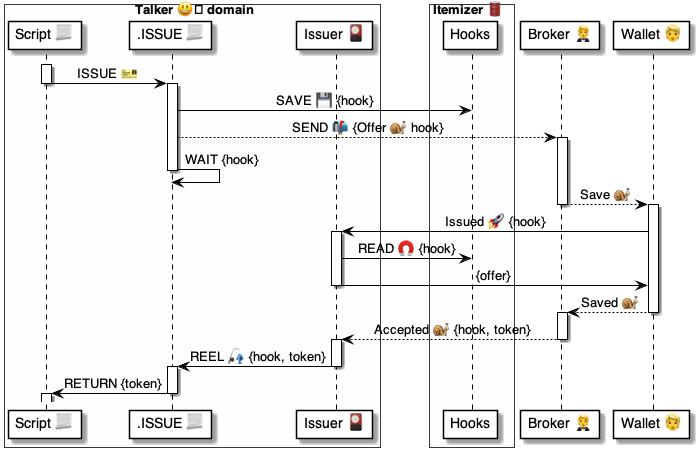
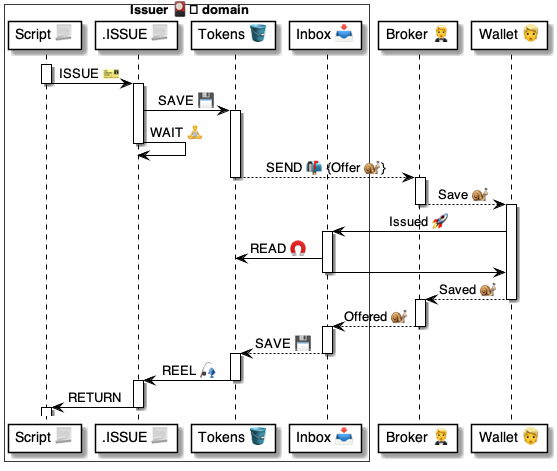
.

diff --git a/4 ⚙ Solution/37 Scripts 📃/📃 Commands ⌘/⌘ for methods 🤵/ISSUE 🎫/🎫 ISSUE 📃 script.md b/4 ⚙ Solution/37 Scripts 📃/📃 Commands ⌘/⌘ for methods 🤵/ISSUE 🎫/🎫 ISSUE 📃 script.md
@@ -1,10 +1,17 @@
 # 🎫 ISSUE 📃 script
 
-[Script 📃](<../../../../35 💬 Chats/Scripts 📃/Script 📃.md>) that implements the [`ISSUE`](<🎫 ISSUE ⌘ cmd.md>) command.
+> About
+* [Script 📃](<../../../../35 💬 Chats/Scripts 📃/Script 📃.md>) that implements the [`ISSUE`](<🎫 ISSUE ⌘ cmd.md>) command.
+* Part of the [🧑🦰 `Save Token` ⏩ flow](<../../../../20 🧑🦰 UI/Wallets 🧑🦰/🧑🦰💬 Wallet chats/...in Prompts 🤔/Save Token 👉🎴🎫/🧑🦰 Save token ⏩ flow.md>)
+* Part of the [🎴 `Issuer.Tokens.Insert` ⏩ flow](<../../../../41 🎭 Domain Roles/Issuers 🎴/🎴🪣 Issuer tables/Tokens 🎫 table/🪣⏩ Flows/1. Issue/🎴 Issuer.Tokens.Insert ⏩ flow.md>)
+
+<br/>
 
 ## Flow
 
 ![alt text](<🎫 ISSUE ⚙ uml.png>)
+
+<br/>
 
 ## How to call
 
@@ -13,11 +20,12 @@
     Schema: any-authority.dom/ANY-SCHEMA
     Starts: 2018-12-10T13:45:00.000Z
     Expires: 2018-12-10T13:45:00.000Z
-    Properties: 
-        {properties}
-    Internals:
-        {internals}
+    Properties: {properties} # Part of the Token 🎫
+    Internals: {internals}   # Internal Issuer 🎴 notes
 ```
+
+<br/>
+
 
 ## Script
 
@@ -31,43 +39,29 @@
     Times: Starts, Expires
 
 # Save the hook
-- SAVE|Talker.Hooks >> $hook:
-    Hook: .UUID
+- SAVE|Issuer.Tokens >> $token:
     Broker: $.Chat.Broker
     Chat: $.Chat.ID
     PublicKey: $.Chat.PublicKey
+    Schema: $Schema
+    Starts: $Starts
+    Expires: $Expires
+    Properties: $Properties
     Internals: $Internals
-    Offer:
-        Schema: $Schema
-        Starts: $Starts
-        Expires: $Expires
-        Properties: $Properties
-    
-# Query the Broker
-- SEND:
-    Header:
-        To: $.Chat.Broker
-        Subject: Issue@Broker
-    Body: 
-        Chat: $.Chat.ID
-        Hook: $hook.Hook
-        Schema: $Schema
-        Starts: $Starts
-        Expires: $Expires
 
 # Wait for the shared data
-- WAIT >> $token:
-    Hook: $hook.Hook
+- WAIT >> $accepted:
+    Hook: $token.ID
 
-# Return the data
-- RETURN:
-    $token
+# Return the token
+- IF|$accepted:
+    RETURN|$token
 ```
 
 Uses||
 |-|-
-|[Commands ⌘](<../../../../35 💬 Chats/Scripts 📃/Command ⌘.md>)| [`ASSERT`](<../../⌘ for holders 🧠/ASSERT 🚦/🚦 ASSERT ⌘ cmd.md>) [`RETURN`](<../../⌘ for control ▶/RETURN ⤴/⤴ RETURN ⌘ cmd.md>) [`SAVE`](<../../⌘ for datasets 🪣/SAVE 💾/💾 SAVE ⌘ cmd.md>) [`SEND`](<../../⌘ for messages 📨/SEND 📬/📬 SEND ⌘ cmd.md>) [`WAIT`](<../../⌘ for async/WAIT 🧘/🧘 WAIT ⌘ cmd.md>)
-| [Datasets 🪣](<../../../../30 🧩 Data/Datasets 🪣/🪣 Dataset.md>) | [`TalkerHooks`](<../../../../35 💬 Chats/Talkers 😃/😃🪣 Talker tables/😃 Talker.Hooks 🪣 table.md>)
+|[Commands ⌘](<../../../../35 💬 Chats/Scripts 📃/Command ⌘.md>)| [`ASSERT`](<../../⌘ for holders 🧠/ASSERT 🚦/🚦 ASSERT ⌘ cmd.md>) [`RETURN`](<../../⌘ for control ▶/RETURN ⤴/⤴ RETURN ⌘ cmd.md>) [`SAVE`](<../../⌘ for datasets 🪣/SAVE 💾/💾 SAVE ⌘ cmd.md>)  [`WAIT`](<../../⌘ for async/WAIT 🧘/🧘 WAIT ⌘ cmd.md>)
+| [Datasets 🪣](<../../../../30 🧩 Data/Datasets 🪣/🪣 Dataset.md>) | [`Issuer.Tokens`](<../../../../41 🎭 Domain Roles/Issuers 🎴/🎴🪣 Issuer tables/Tokens 🎫 table/🪣 Tokens/🎴 Issuer.Tokens 🪣 table.md>)
 | [Holders 🧠](<../../../../35 💬 Chats/Scripts 📃/Holder 🧠.md>) | [`.Chat`](<../../../📃 Holders 🧠/System holders 🔩/$.Chat 💬/💬 $.Chat 🧠 holder.md>)
-| [Messages 📨](<../../../../30 🧩 Data/Messages 📨/📨 Message/📨 Message.md>) | [`Issue@Broker` 🅰 method](<../../../../20 🧑🦰 UI/Brokers 🤵/🤵🅰 Broker methods/Tokens 🎫 Issue 🎴🐌🤵/🤵 Issue 🐌 msg.md>) <br/> [`Issued@Issuer` 🅰 method](<../../../../41 🎭 Domain Roles/Issuers 🎴/🎴🅰 Issuer methods/Issued 🧑🦰🚀🎴/🎴 Issued 🚀 call.md>) <br/> [`Offered@Issuer` 🅰 method](<../../../../41 🎭 Domain Roles/Issuers 🎴/🎴🅰 Issuer methods/Offered 🤵🐌🎴/🎴 Offered 🐌 msg.md>)
+| [Messages 📨](<../../../../30 🧩 Data/Messages 📨/📨 Message/📨 Message.md>) | [`Issue@Broker` 🅰 method](<../../../../20 🧑🦰 UI/Brokers 🤵/🤵🅰 Broker methods/Tokens 🎫 Issue 🎴🐌🤵/🤵 Issue 🐌 msg.md>) 
 |

diff --git a/4 ⚙ Solution/41 🎭 Domain Roles/Issuers 🎴/🎴🪣 Issuer tables/Tokens 🎫 table/🪣⏩ Flows/1. Issue/🎴 Issuer.Tokens.Insert ⏩ flow.md b/4 ⚙ Solution/41 🎭 Domain Roles/Issuers 🎴/🎴🪣 Issuer tables/Tokens 🎫 table/🪣⏩ Flows/1. Issue/🎴 Issuer.Tokens.Insert ⏩ flow.md
@@ -1,0 +1,21 @@
+# 🎴 Issuer.Tokens.Insert ⏩ flow
+
+> Part of the [`Issuer.Tokens` 🪣 table](<../../🪣 Tokens/🎴 Issuer.Tokens 🪣 table.md>)
+
+<br/>
+
+## Diagram
+
+![alt text](<🎴 Issuer.Tokens.Insert ⚙ uml.png>)
+
+Step|Details
+|-|-
+|[`ISSUE` ⌘ command](<../../../../../../37 Scripts 📃/📃 Commands ⌘/⌘ for methods 🤵/ISSUE 🎫/🎫 ISSUE ⌘ cmd.md>) | [Script 📃](<../../../../../../35 💬 Chats/Scripts 📃/Script 📃.md>) intent to issue a [Token 🎫](<../../../../../../30 🧩 Data/Tokens 🎫/🎫 Token/🎫 Token.md>) in a [Chat 💬](<../../../../../../35 💬 Chats/Chats 💬/💬 Chat.md>)
+|[`ISSUE` 📃 script](<../../../../../../37 Scripts 📃/📃 Commands ⌘/⌘ for methods 🤵/ISSUE 🎫/🎫 ISSUE 📃 script.md>) | [Script 📃](<../../../../../../35 💬 Chats/Scripts 📃/Script 📃.md>) that implements [`ISSUE` ⌘ command](<../../../../../../37 Scripts 📃/📃 Commands ⌘/⌘ for methods 🤵/ISSUE 🎫/🎫 ISSUE ⌘ cmd.md>)
+|[`OnTokenIssued` 🔔 handler](<../../../../../../20 🧑🦰 UI/Brokers 🤵/🤵🪣 Broker tables/Tokens 🎫 table/🪣🔔 1 Issued/🤵 OnTokenIssued 🔔 handler.md>) | [`Issuer.Tokens` 🪣](<../../🪣 Tokens/🎴 Issuer.Tokens 🪣 table.md>) event that calls [`SEND` 📬](<../../../../../../37 Scripts 📃/📃 Commands ⌘/⌘ for messages 📨/SEND 📬/📬 SEND ⌘ cmd.md>)
+|[`Issue@Broker` 🅰 method](<../../../../../../20 🧑🦰 UI/Brokers 🤵/🤵🅰 Broker methods/Tokens 🎫 Issue 🎴🐌🤵/🤵 Issue 🐌 msg.md>) | [Broker 🤵 ](<../../../../../../20 🧑🦰 UI/Brokers 🤵/🤵 Broker helper/🤵 Broker 🤲 helper.md>) endpoint that receives the [Token 🎫](<../../../../../../30 🧩 Data/Tokens 🎫/🎫 Token/🎫 Token.md>) offer
+|[`Issued@Issuer` 🅰 method](<../../../../🎴🅰 Issuer methods/Issued 🧑🦰🚀🎴/🎴 Issued 📃 handler.md>) | [Issuer 🎴](<../../../../🎴 Issuer/🎴🎭 Issuer role.md>) endpoint for [Wallets 🧑🦰](<../../../../../../20 🧑🦰 UI/Wallets 🧑🦰/🧑🦰 Wallet app/🧑🦰 Wallet 🛠 app.md>) to read the [Token 🎫](<../../../../../../30 🧩 Data/Tokens 🎫/🎫 Token/🎫 Token.md>)
+|[`Issued@Issuer` 📃 handler](<../../../../🎴🅰 Issuer methods/Issued 🧑🦰🚀🎴/🎴 Issued 📃 handler.md>) | [`Issued@Issuer` 🅰 method](<../../../../🎴🅰 Issuer methods/Issued 🧑🦰🚀🎴/🎴 Issued 📃 handler.md>) handler
+|[`Offered@Issuer` 🅰 method](<../../../../🎴🅰 Issuer methods/Offered 🤵🐌🎴/🎴 Offered 🐌 msg.md>) | [Issuer 🎴 domain](<../../../../🎴 Issuer/🎴🎭 Issuer role.md>) method that receives accept or decline
+|[`OnTokenOffered` 🔔 handler](<../../../../../../20 🧑🦰 UI/Brokers 🤵/🤵🪣 Broker tables/Tokens 🎫 table/🪣🔔 3 Offered/🤵 OnTokenOffered 🔔 handler.md>) | [`Issuer.Tokens` 🪣](<../../🪣 Tokens/🎴 Issuer.Tokens 🪣 table.md>) event that returns to [`ISSUE` ⌘](<../../../../../../37 Scripts 📃/📃 Commands ⌘/⌘ for methods 🤵/ISSUE 🎫/🎫 ISSUE ⌘ cmd.md>)
+|

diff --git a/4 ⚙ Solution/41 🎭 Domain Roles/Issuers 🎴/🎴🅰 Issuer methods/Issued 🧑🦰🚀🎴/🎴 Issued 🚀 call.md b/4 ⚙ Solution/41 🎭 Domain Roles/Issuers 🎴/🎴🅰 Issuer methods/Issued 🧑🦰🚀🎴/🎴 Issued 🚀 call.md
@@ -1,12 +1,11 @@
 # 🧑🦰🚀🎴 Issued @ Issuer
 
 
-> Implementation
+> About
 * Part of an [Issuer 🎴 domain](<../../🎴 Issuer/🎴🎭 Issuer role.md>)
 * Implemented by the [`Issued` 📃 script](<🎴 Issued 📃 handler.md>)
-
-> Flow
-* Part of the [🎴⏩🧑🦰 Offer Token @ Issuer](<../../../../20 🧑🦰 UI/Wallets 🧑🦰/🧑🦰💬 Wallet chats/...in Prompts 🤔/Save Token 👉🎴🎫/🧑🦰 Save token ⏩ flow.md>) flow.
+* Part of the [🧑🦰 `Save token` ⏩ flow](<../../../../20 🧑🦰 UI/Wallets 🧑🦰/🧑🦰💬 Wallet chats/...in Prompts 🤔/Save Token 👉🎴🎫/🧑🦰 Save token ⏩ flow.md>) flow.
+* Part of the [🎴 `Issuer.Tokens.Insert` ⏩ flow](<../../../../41 🎭 Domain Roles/Issuers 🎴/🎴🪣 Issuer tables/Tokens 🎫 table/🪣⏩ Flows/1. Issue/🎴 Issuer.Tokens.Insert ⏩ flow.md>)
 
 > Purpose
 * Allows for a [Token 🎫](<../../../../30 🧩 Data/Tokens 🎫/🎫 Token/🎫 Token.md>) to be downloaded 

diff --git a/4 ⚙ Solution/37 Scripts 📃/📃 Commands ⌘/⌘ for methods 🤵/ISSUE 🎫/🎫 ISSUE ⌘ cmd.md b/4 ⚙ Solution/37 Scripts 📃/📃 Commands ⌘/⌘ for methods 🤵/ISSUE 🎫/🎫 ISSUE ⌘ cmd.md
@@ -1,9 +1,16 @@
 # 😃🎫 Talker `ISSUE` command
 
-> Part of [Script 📃](<../../../../35 💬 Chats/Scripts 📃/Script 📃.md>)
+> About
+* Part of [Script 📃](<../../../../35 💬 Chats/Scripts 📃/Script 📃.md>)
+* Implemented by the [`ISSUE` 📃 script](<🎫 ISSUE 📃 script.md>)
+* To be used with an [Issuer 🎴 domain](<../../../../41 🎭 Domain Roles/Issuers 🎴/🎴 Issuer/🎴🎭 Issuer role.md>) role
+* Part of the [🧑🦰 `Save Token` ⏩ flow](<../../../../20 🧑🦰 UI/Wallets 🧑🦰/🧑🦰💬 Wallet chats/...in Prompts 🤔/Save Token 👉🎴🎫/🧑🦰 Save token ⏩ flow.md>)
+* Part of the [🎴 `Issuer.Tokens.Insert` ⏩ flow](<../../../../41 🎭 Domain Roles/Issuers 🎴/🎴🪣 Issuer tables/Tokens 🎫 table/🪣⏩ Flows/1. Issue/🎴 Issuer.Tokens.Insert ⏩ flow.md>)
 
   
 <br/>
+
+## FAQ
 
 1. **What is an ISSUE message command?**
 

diff --git a/4 ⚙ Solution/20 🧑🦰 UI/Brokers 🤵/🤵🅰 Broker methods/Tokens 🎫 Issue 🎴🐌🤵/🤵 Issue 🐌 msg.md b/4 ⚙ Solution/20 🧑🦰 UI/Brokers 🤵/🤵🅰 Broker methods/Tokens 🎫 Issue 🎴🐌🤵/🤵 Issue 🐌 msg.md
@@ -4,7 +4,7 @@
 # 🎴🐌🤵 Issue @ Broker
 
 > Flow
-* Part of the [`Save Token` ⏩ flow](<../../../Wallets 🧑🦰/🧑🦰💬 Wallet chats/...in Prompts 🤔/Save Token 👉🎴🎫/🧑🦰 Save token ⏩ flow.md>)
+* Part of the [🧑🦰 `Save Token` ⏩ flow](<../../../Wallets 🧑🦰/🧑🦰💬 Wallet chats/...in Prompts 🤔/Save Token 👉🎴🎫/🧑🦰 Save token ⏩ flow.md>)
 * Followed by the [`Save@Notifier` 🅰 method](<../../../Notifiers 📣/📣🅰 Notifier methods/Tokens 🎫 Save 🤵🐌📣/📣 Save 🐌 msg.md>)
 
 > Implementation

diff --git a/4 ⚙ Solution/41 🎭 Domain Roles/Issuers 🎴/🎴🅰 Issuer methods/Issued 🧑🦰🚀🎴/🎴 Issued 📃 handler.md b/4 ⚙ Solution/41 🎭 Domain Roles/Issuers 🎴/🎴🅰 Issuer methods/Issued 🧑🦰🚀🎴/🎴 Issued 📃 handler.md
@@ -2,7 +2,13 @@
 
 > Purpose
 * [Script 📃](<../../../../35 💬 Chats/Scripts 📃/Script 📃.md>) that implements the [`Issued@Issuer` 🅰 method](<🎴 Issued 🚀 call.md>).
+* Part of the [🎴 `Issuer.Tokens.Insert` ⏩ flow](<../../../../41 🎭 Domain Roles/Issuers 🎴/🎴🪣 Issuer tables/Tokens 🎫 table/🪣⏩ Flows/1. Issue/🎴 Issuer.Tokens.Insert ⏩ flow.md>)
 
+<br/>
+
+## Diagram
+
+![alt text](<🎴 Issued ⚙ uml.png>)
 
 <br/>
 
